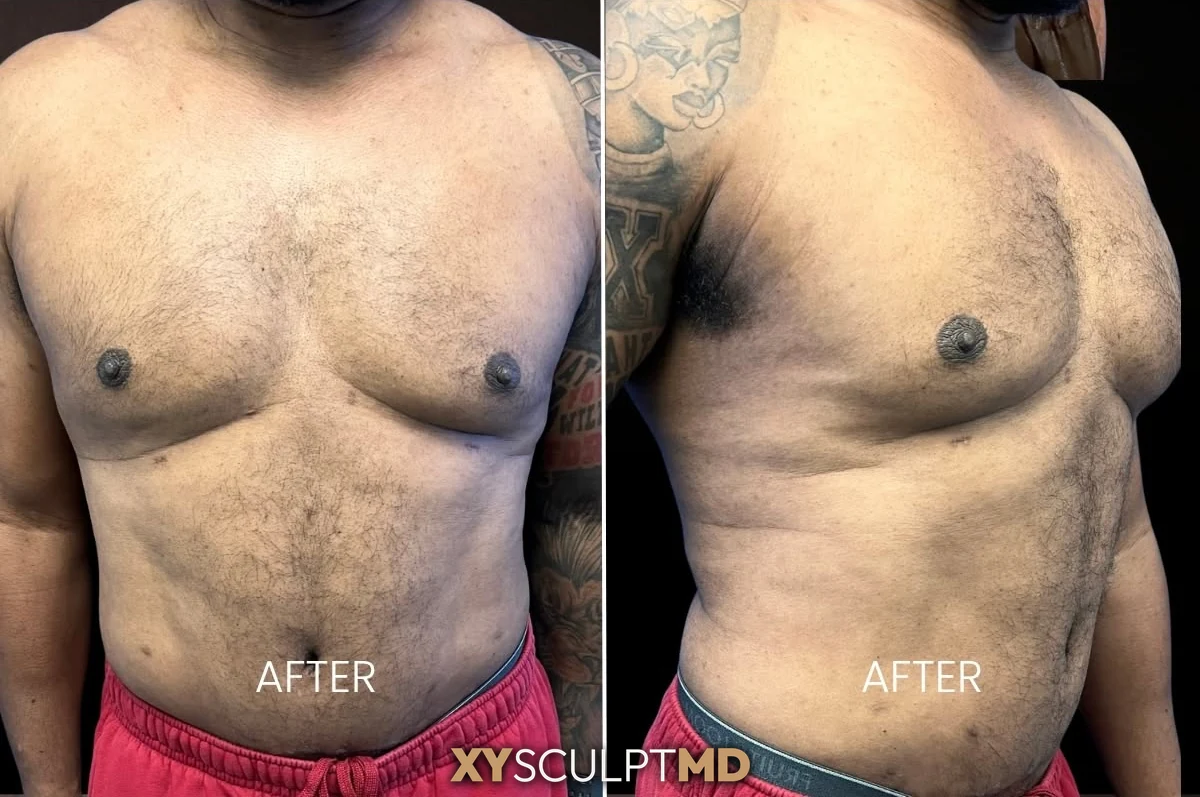
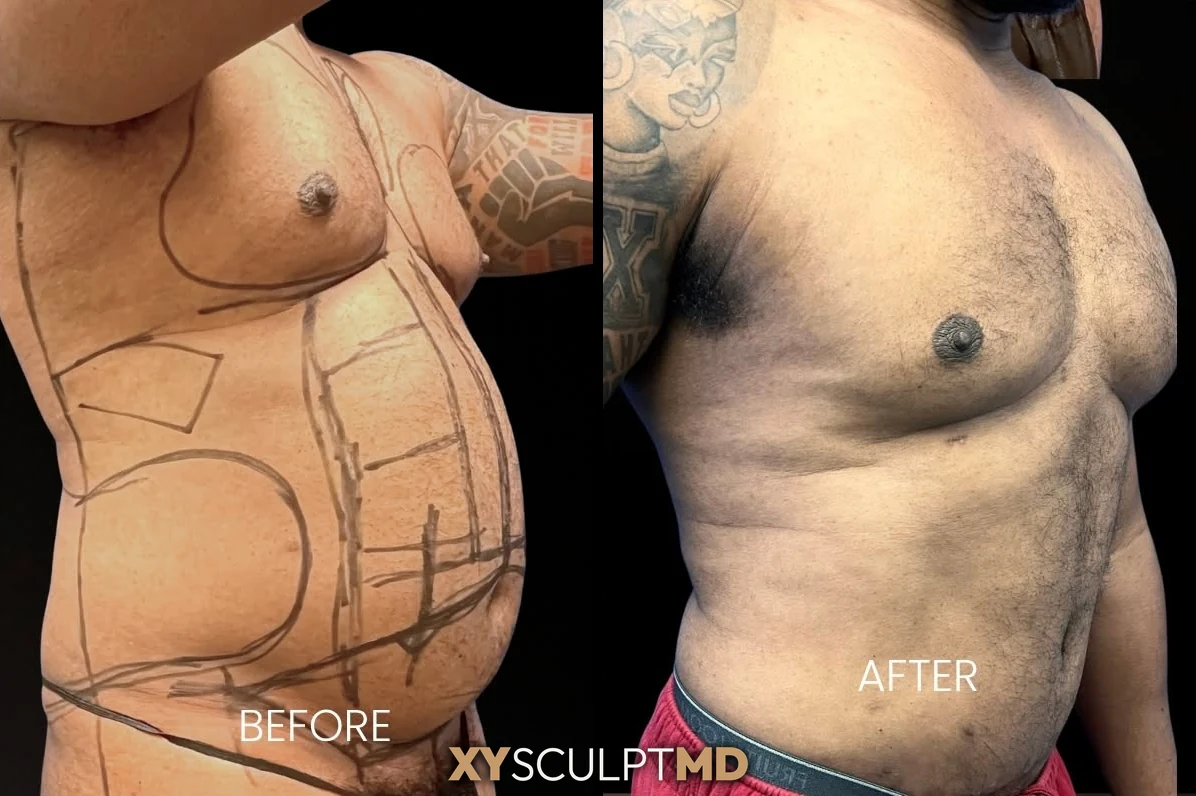
Gallery: side-view before/after in last card, white lines between cards
Replace the after-only pair in the sixth results card with the
side-view before photo next to the side-view after. Add 4px white
lines between the cards and around the grid.

diff --git a/src/app/page.tsx b/src/app/page.tsx
@@ -58,7 +58,7 @@ const RESULTS = [
   { title: 'Male Liposuction 360', subtitle: 'Full Torso Contouring', label: 'Male Lipo 360\nBefore & After', image: '/results/result-01.webp', width: 600, height: 400 },
   { title: 'Male Tummy Tuck', subtitle: 'Abdominoplasty + Lipo', label: 'Male Tummy Tuck\nBefore & After', image: '/results/result-02.webp', width: 600, height: 400 },
   { title: 'Abdominal Etching', subtitle: 'HD Lipo + Ab Definition', label: 'Ab Etching\nBefore & After', image: '/results/result-06.webp', width: 600, height: 400 },
-  { title: 'Male Makeover', subtitle: 'Chest + Full Torso Contouring', label: 'Male Makeover\nResults', image: '/results/result-04.webp', width: 1200, height: 797, alt: 'Male Makeover results, front and side view, XYSculptMD patient' },
+  { title: 'Male Makeover', subtitle: 'Chest + Full Torso Contouring', label: 'Male Makeover\nBefore & After', image: '/results/result-04.webp', width: 1196, height: 796 },
 ];
 
 const TESTIMONIALS = [
@@ -321,7 +321,7 @@ export default function HomePage() {
                 {r.image ? (
                   <img
                     src={r.image}
-                    alt={r.alt ?? `${r.title} before and after, XYSculptMD patient`}
+                    alt={`${r.title} before and after, XYSculptMD patient`}
                     width={r.width}
                     height={r.height}
                     loading="lazy"

diff --git a/src/styles/globals.css b/src/styles/globals.css
@@ -337,7 +337,8 @@ section { padding: 100px 0; position: relative; }
 /* ── Results Gallery ── */
 .results { background: var(--bg); }
 .results-strip {
-  display: grid; grid-template-columns: repeat(3, 1fr); gap: 3px;
+  display: grid; grid-template-columns: repeat(3, 1fr); gap: 4px;
+  padding: 4px; background: #fff;
   margin-top: 56px; border-radius: var(--radius-lg); overflow: hidden;
 }
 .result-card {

diff --git a/MAINTENANCE-LEDGER.md b/MAINTENANCE-LEDGER.md
@@ -12,4 +12,4 @@ Things shipped on this site that need ongoing care. Add a row whenever something
 | Male butt lift page | 2026-11-04 | Still carries three visible "Draft note" placeholders. Dr. Moein's site had no butt lift page to pull from. Needs his technique, candidacy, and recovery input before launch. | One time, before launch | Dr. Moein |
 | Male facial rejuvenation page | 2026-11-04 | Paraphrased from Moein Surgical Arts face pages (InstaLift, Kybella, neck lipo, Renuvion, Morpheus8, fillers, chin). No pricing listed. Needs Dr. Moein's sign-off on the treatment menu and timelines before launch. | One time, then with the 6-month review | P5 + Dr. Moein |
 | GoHighLevel consultation form (`/contact`) | 2026-11-05 | "XYSculptMD Contact Form" (GHL form ID `ycnLuDQA4jpW51aii4Vk`), embedded inline via GHL's `form_embed.js` in `src/components/GHLForm.tsx`, which auto-resizes the frame and passes utm_*, gclid, fbclid to GHL. Every "Book Private Consultation" button routes here, so if this form breaks, every CTA on the site breaks. If the form is rebuilt in GHL, update the ID (or set `NEXT_PUBLIC_GHL_FORM_ID`). Also check the GHL notification and workflow still fire. | Monthly test submission at `/contact?utm_source=test&gclid=test123` | P5 |
-| Homepage before/after photos (`public/results/`) | 2026-11-13 | Six sets re-marked with the XYSCULPTMD wordmark (old Moein Surgical Arts and circle marks removed). All six are live on the homepage results strip (two rows of three); `result-04` is an after-only pair. `/gallery` still shows placeholders. The photo-to-procedure pairing on the homepage was P5's guess and needs Dr. Moein's confirmation, along with patient photo consent. | One time, before launch | P5 + Dr. Moein |
+| Homepage before/after photos (`public/results/`) | 2026-11-13 | Six sets re-marked with the XYSCULPTMD wordmark (old Moein Surgical Arts and circle marks removed). All six are live on the homepage results strip (two rows of three); `/gallery` still shows placeholders. The photo-to-procedure pairing on the homepage was P5's guess and needs Dr. Moein's confirmation, along with patient photo consent. | One time, before launch | P5 + Dr. Moein |
